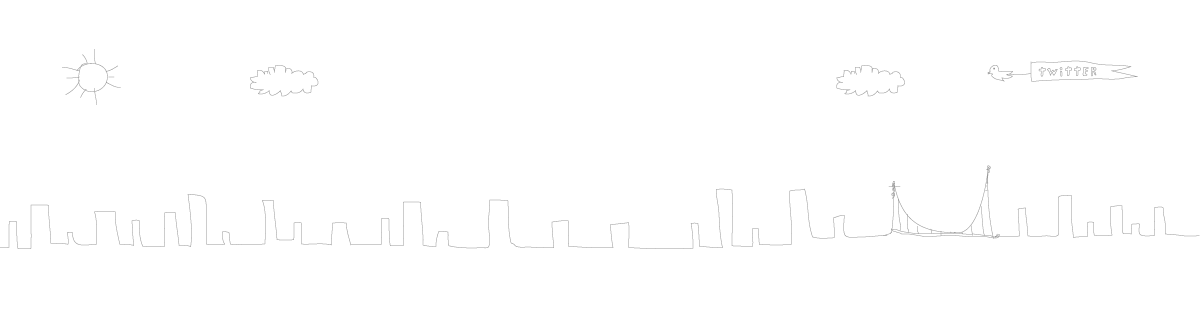
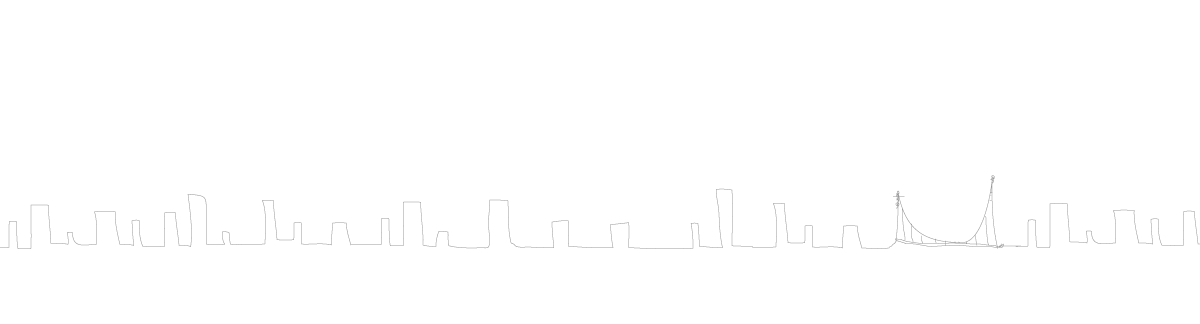
モバイル対応にした2

diff --git a/wp-content/themes/new.wp.hatch.studio/css/desktop.css b/wp-content/themes/new.wp.hatch.studio/css/desktop.css
@@ -39,10 +39,9 @@ body {
 }
 
 /* 全囲みdiv*/
-
 #container {
     width: 90%;
-    margin: 50px auto;
+    margin: 76px auto;
 }
 
 /*middle div*/
@@ -134,10 +133,12 @@ ul.nav .ranking {
 /* COMMON HEADER */
 
 
-.header {
-    background-image: url(../images/header/sf-background.png);
-    background-repeat: no-repeat;
-}
+    .header {
+        background-image: url(../images/header/sf-background.png);
+        background-repeat: repeat-x;
+    }
+
+
 
 .header:after{
 
@@ -147,6 +148,7 @@ ul.nav .ranking {
 .header .sub-title, ul.pickup .sub-title, #single-post .mini-info .sub-title {
     font-size: 9px;
 }
+
 
 /* INDEX HEADER */
 
@@ -220,8 +222,8 @@ ul.important-notice a{
 .about-us {
     float: right;
     position: relative;
-    top: -95px;
-    right: 32px;
+    top: -22%;
+    right: 4%;
 }
 
 

diff --git a/wp-content/themes/new.wp.hatch.studio/style.css b/wp-content/themes/new.wp.hatch.studio/style.css
@@ -312,8 +312,7 @@ ul.nav.social > li > a {
 /* HEADER LOCATIONS NAVI */
 
 .header {
-    height: 330px;
-    padding-top: 70px;
+    height: 411px;
 }
 
 ul.header-navi-locations{
@@ -365,6 +364,24 @@ ul.header-navi-locations li.location-description{
 
 
 
+ui.backgroundimge-icon li{
+    display: inline;
+}
+
+.header-sun {
+    position: relative;
+    left: 4%;
+}
+
+.header-cloud1 {
+    position: relative;
+    left: 14%;
+}
+
+.header-cloud2 {
+    position: relative;
+    left: 55%;
+}
 
 /* COMMON HEADER */
 

diff --git a/wp-content/themes/new.wp.hatch.studio/css/mobile.css b/wp-content/themes/new.wp.hatch.studio/css/mobile.css
@@ -95,6 +95,7 @@ ul.nav.social li {
 
 /* COMMON HEADER */
 
+
 .header .sub-title, ul.pickup .sub-title, .single-post .mini-info .sub-title {
     font-size: 1em;
 }
@@ -727,5 +728,14 @@ display: none;
 li.location-description img{
     visibility: hidden;
 
+}
+    .header-cloud1 {
+      visibility: hidden;
+    }
+}
+@media screen and (min-width: 545px) {
+.header {
+    background-image: url(../images/header/sf-background.png);
+    background-repeat: repeat-x;
 }
 }

diff --git a/wp-content/themes/new.wp.hatch.studio/contents/index_header/_sf.php b/wp-content/themes/new.wp.hatch.studio/contents/index_header/_sf.php
@@ -1,3 +1,16 @@
+
+<ui class="backgroundimge-icon">
+
+<li class="header-sun">
+<img src="<?php echo get_template_directory_uri(); ?>/images/header/header-sun.png">
+    </li>
+<li class="header-cloud1">
+    <img src="<?php echo get_template_directory_uri(); ?>/images/header/header-cloud.png">
+</li>
+<li class="header-cloud2">
+    <img src="<?php echo get_template_directory_uri(); ?>/images/header/header-cloud.png">
+</li>
+</ui>
 <div class="site-character">
     <img src="<?php echo get_template_directory_uri(); ?>/images/header/sf-banner-top.png">
 </div>

diff --git a/wp-content/themes/new.wp.hatch.studio/contents/index_header/_ucberkeley.php b/wp-content/themes/new.wp.hatch.studio/contents/index_header/_ucberkeley.php
@@ -6,12 +6,12 @@
 
     <li class="location-description">
         <img src="<?php echo get_template_directory_uri(); ?>/images/header/header-location-icons-ny.png">
-        <p>サンフランシスコ</p>
+        <p>ニューヨーク</p>
     </li>
 
     <li class="location-description">
         <img src="<?php echo get_template_directory_uri(); ?>/images/header/header-location-icons-ucb.png">
-        <p>ニューヨーク</p>
+        <p>UCバークレー</p>
     </li>
 
     <li class="location-description">

diff --git a/wp-content/themes/new.wp.hatch.studio/contents/index/_index_header.php b/wp-content/themes/new.wp.hatch.studio/contents/index/_index_header.php
@@ -1,1 +1,1 @@
-<?php include(TEMPLATEPATH . '/contents/' . $content_type . '_header/_' . $site_name[get_current_blog_id()] . '.php'); ?>
+<?php include(TEMPLATEPATH . '/contents/' . $content_type . '_header/_sf.php'); ?>
